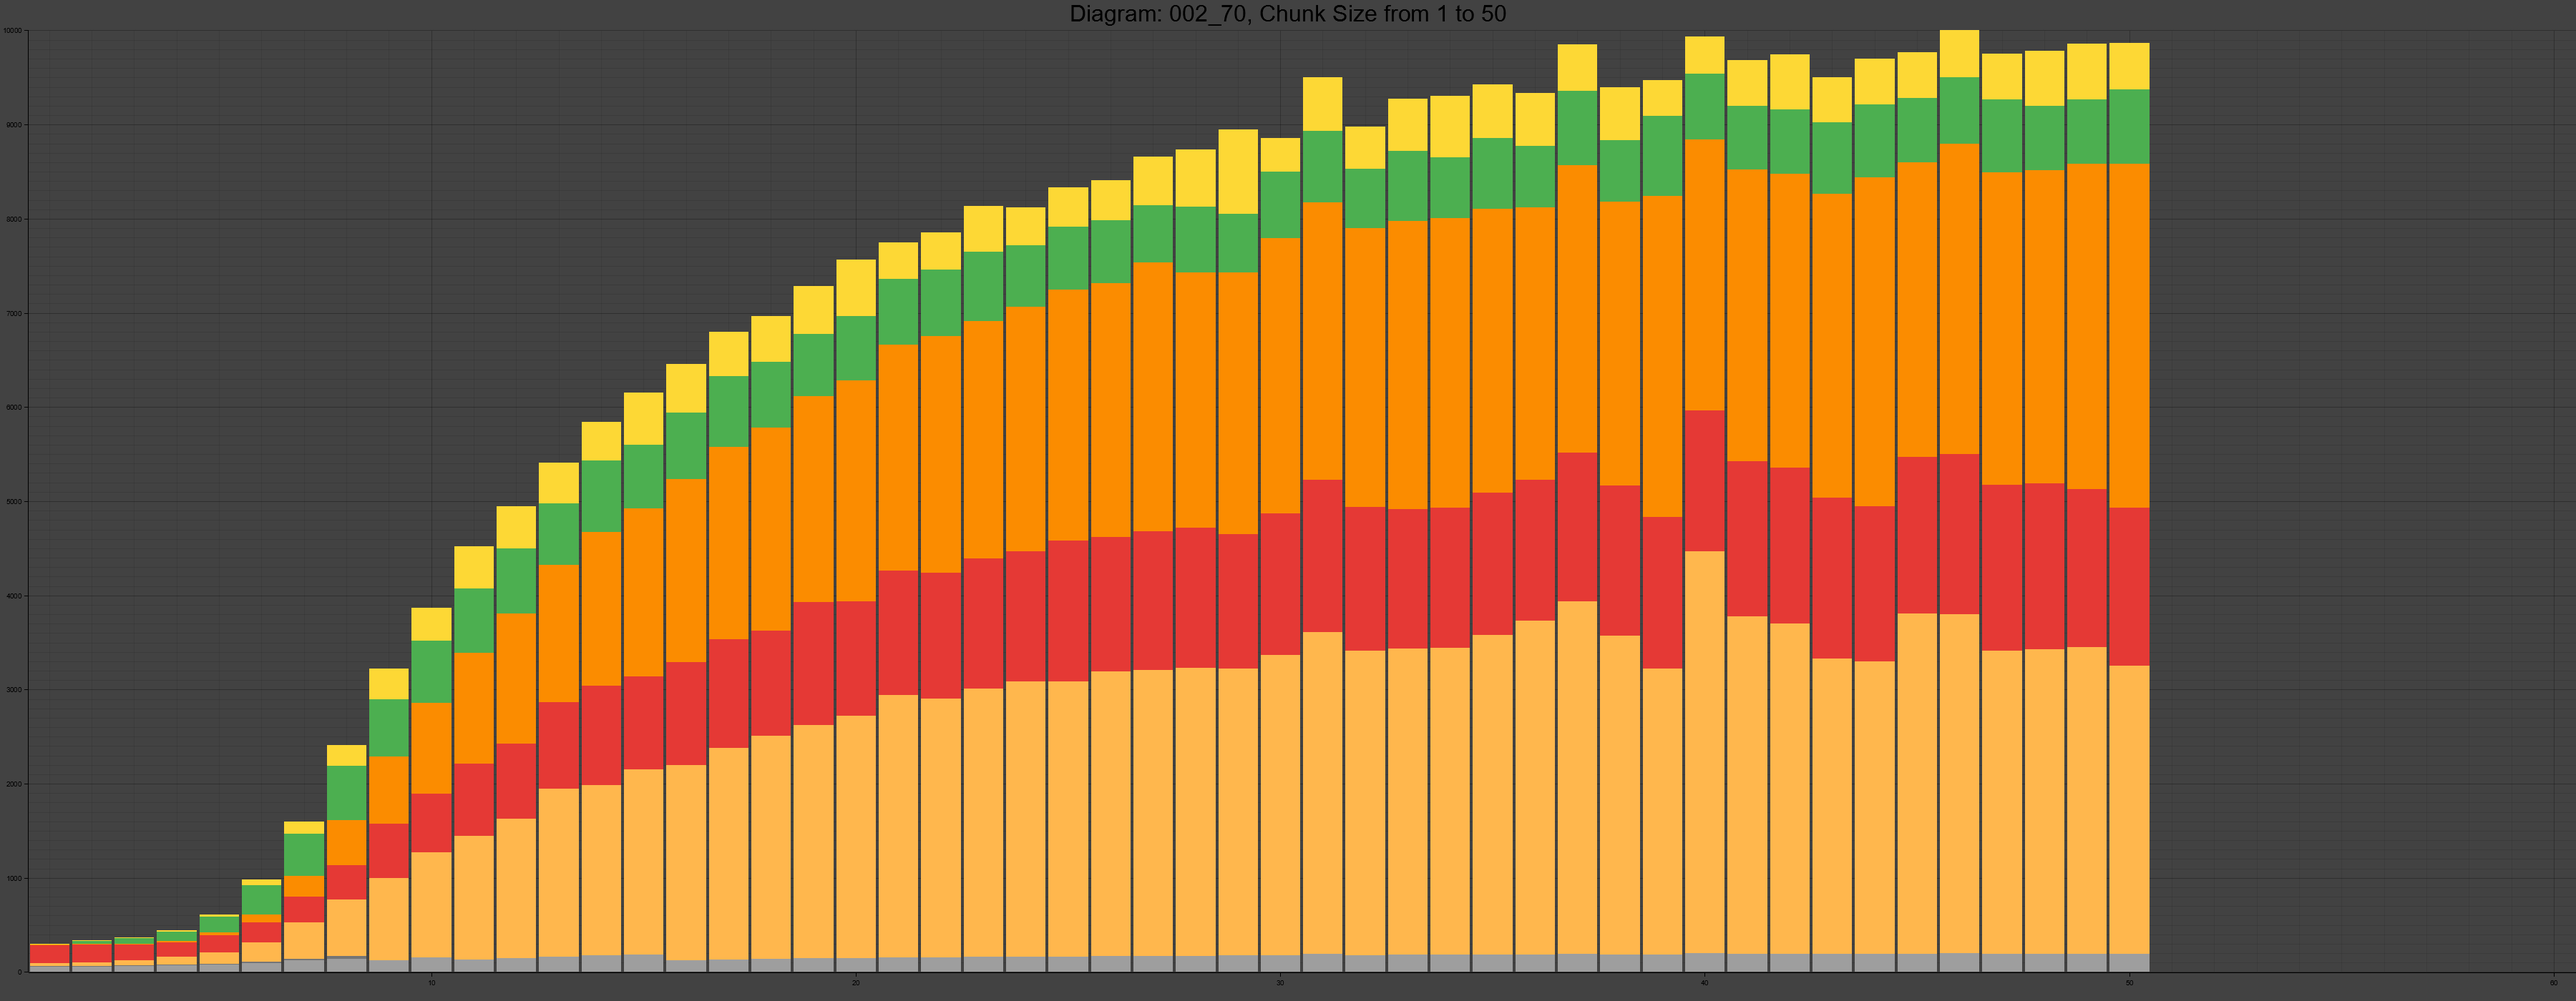
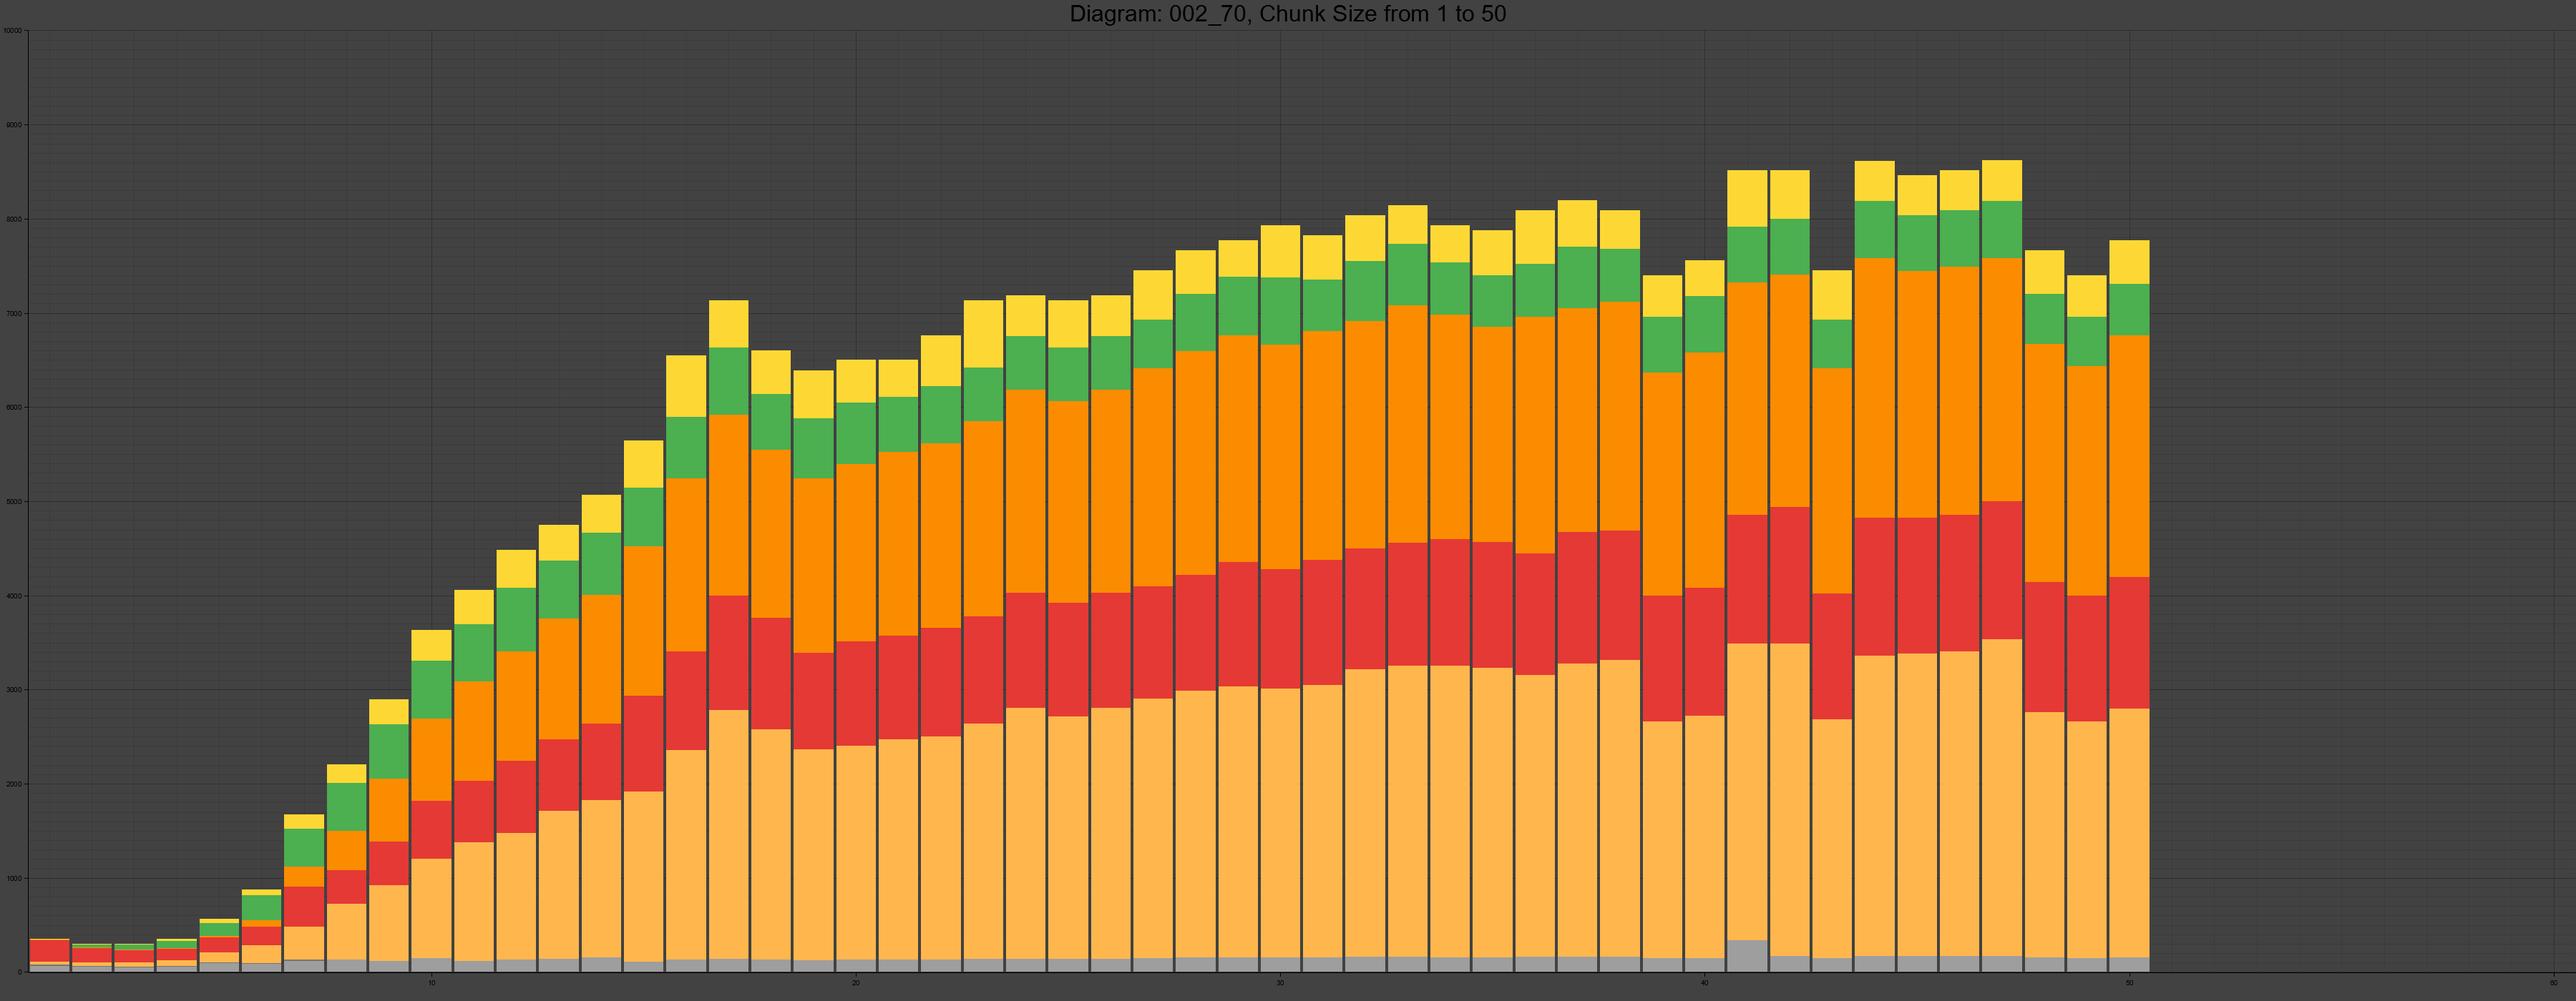
Plots with Set Height

Changed region(s): [[0.0, 0.0307, 0.84, 0.9829], [0.7778, 0.9521, 0.8089, 0.9829], [0.6533, 0.9214, 0.6844, 0.9521]]

diff --git a/src/plot/plot.rs b/src/plot/plot.rs
@@ -10,6 +10,7 @@ use plotters::prelude::{RGBColor, GREEN, RED};
 pub fn draw_plot_from_monitor(
     fasta_file_name: &str,
     chunk_size_and_execution_info_list: Vec<(usize, ExecutionInfo)>,
+    excessive_sum_phases_duration: u32,
 ) {
     // Duration Composite + Chunk Size + Duration + 4 monitor parameters + gap.
     // let num_cols_per_data_item: u32 = 1 + 2 + 4 + 1;
@@ -55,7 +56,7 @@ pub fn draw_plot_from_monitor(
             // This is required only to have min and max values.
             execution_generics
                 .execution_timing
-                .whole_duration
+                .sum_duration_only_phases
                 .as_millis() as u32,
             execution_generics.chunk_size,
             execution_generics.param_1,
@@ -75,14 +76,13 @@ pub fn draw_plot_from_monitor(
     ];
 
     // Min and Max values.
-    let first_record = records.get(0).unwrap();
     let mut min_values = vec![
-        first_record[0],
-        first_record[1],
-        first_record[2],
-        first_record[3],
-        first_record[4],
-        first_record[5],
+        records[0][0],
+        records[0][1],
+        records[0][2],
+        records[0][3],
+        records[0][4],
+        records[0][5],
     ];
     let mut max_values = min_values.clone();
     for i in 1..records.len() {
@@ -96,6 +96,7 @@ pub fn draw_plot_from_monitor(
             }
         }
     }
+    max_values[0] = excessive_sum_phases_duration;
 
     let diagram_min_y_drawn_for_bar = 300;
     let diagram_max_y = 10000;

diff --git a/src/suites/suffix_array.rs b/src/suites/suffix_array.rs
@@ -27,8 +27,8 @@ pub fn main_suffix_array() {
     // suite_complete_on_fasta_file("000", chunk_size_interval, pl, dm);
     // suite_complete_on_fasta_file("001", chunk_size_interval, pl, dm);
     // suite_complete_on_fasta_file("002_mini", chunk_size_interval, pl, dm);
-    suite_complete_on_fasta_file("002_70", chunk_size_interval, pl, dm);
-    // suite_complete_on_fasta_file("002_700", chunk_size_interval, pl, dm);
+    suite_complete_on_fasta_file("002_70", chunk_size_interval, 200, pl, dm);
+    // suite_complete_on_fasta_file("002_700", chunk_size_interval, 3_500, pl, dm);
     // suite_complete_on_fasta_file("002_7000", chunk_size_interval, pl, dm);
     // suite_complete_on_fasta_file("002_70000", chunk_size_interval, pl, dm);
 }

diff --git a/src/suffix_array/suite.rs b/src/suffix_array/suite.rs
@@ -10,6 +10,7 @@ use std::time::Duration;
 pub fn suite_complete_on_fasta_file(
     fasta_file_name: &str,
     chunk_size_interval: (usize, usize), // Both incl.
+    excessive_sum_phases_duration: u32,
     perform_logging: bool,
     debug_mode: DebugMode,
 ) {
@@ -65,7 +66,11 @@ pub fn suite_complete_on_fasta_file(
     }
 
     // Plots
-    draw_plot_from_monitor(fasta_file_name, chunk_size_and_execution_info_list);
+    draw_plot_from_monitor(
+        fasta_file_name,
+        chunk_size_and_execution_info_list,
+        excessive_sum_phases_duration,
+    );
 }
 
 pub struct RunAndValidateTestOutput {
